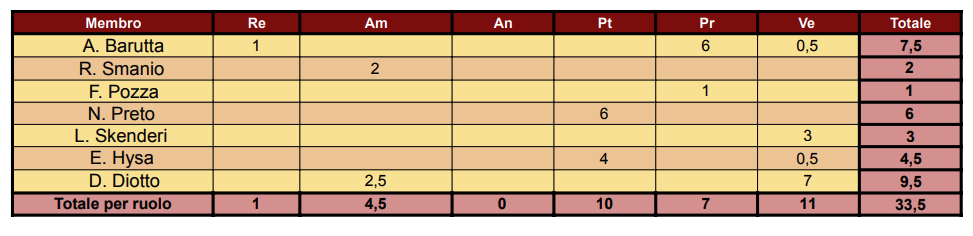
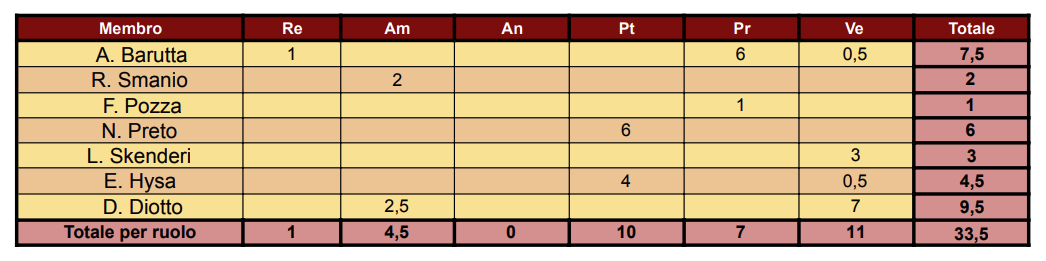
aggiustate immagini

diff --git a/Documenti_Esterni/Sottosezioni/Piano_di_progetto/Tra_rtb_pb.tex b/Documenti_Esterni/Sottosezioni/Piano_di_progetto/Tra_rtb_pb.tex
@@ -70,7 +70,7 @@ Per le \textit{attività}\textsubscript{\textit{G}} registrate nei costi, sono s
 
 \begin{figure}[H]
     \centering
-    \includegraphics[height=0.9\textwidth]{../Images/tabG7.PNG}
+    \includegraphics[height=0.65\textwidth]{../Images/tabG7.PNG}
     \caption{Settimo periodo}
     \label{fig:Settimo_periodo}
 \end{figure}
